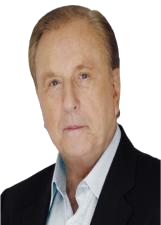
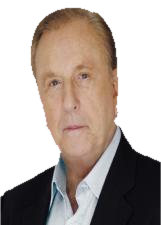
Refine transparent portraits across candidate archive

diff --git a/public/images/credits.html b/public/images/credits.html
@@ -114,6 +114,14 @@
       licenças CC BY indicadas acima, com atribuição preservada. Os PNGs são
       servidos localmente; não há dependência de CDN de imagens.
     </p>
+    <p>
+      Neste ajuste, as máscaras alpha dos dez retratos de 2022 e dos dez
+      retratos complementares de 2026 tiveram uma contração uniforme de borda
+      e um feather leve para reduzir halos claros. Os pixels RGB das fotografias
+      foram preservados integralmente. Flávio e Lula mantêm seus PNGs próprios.
+      A lista de candidatos continua condicionada aos registros que a fonte
+      publica para a eleição e o turno escolhidos.
+    </p>
   </section>
   <a href="../index.html">Voltar ao painel</a>
 </html>
